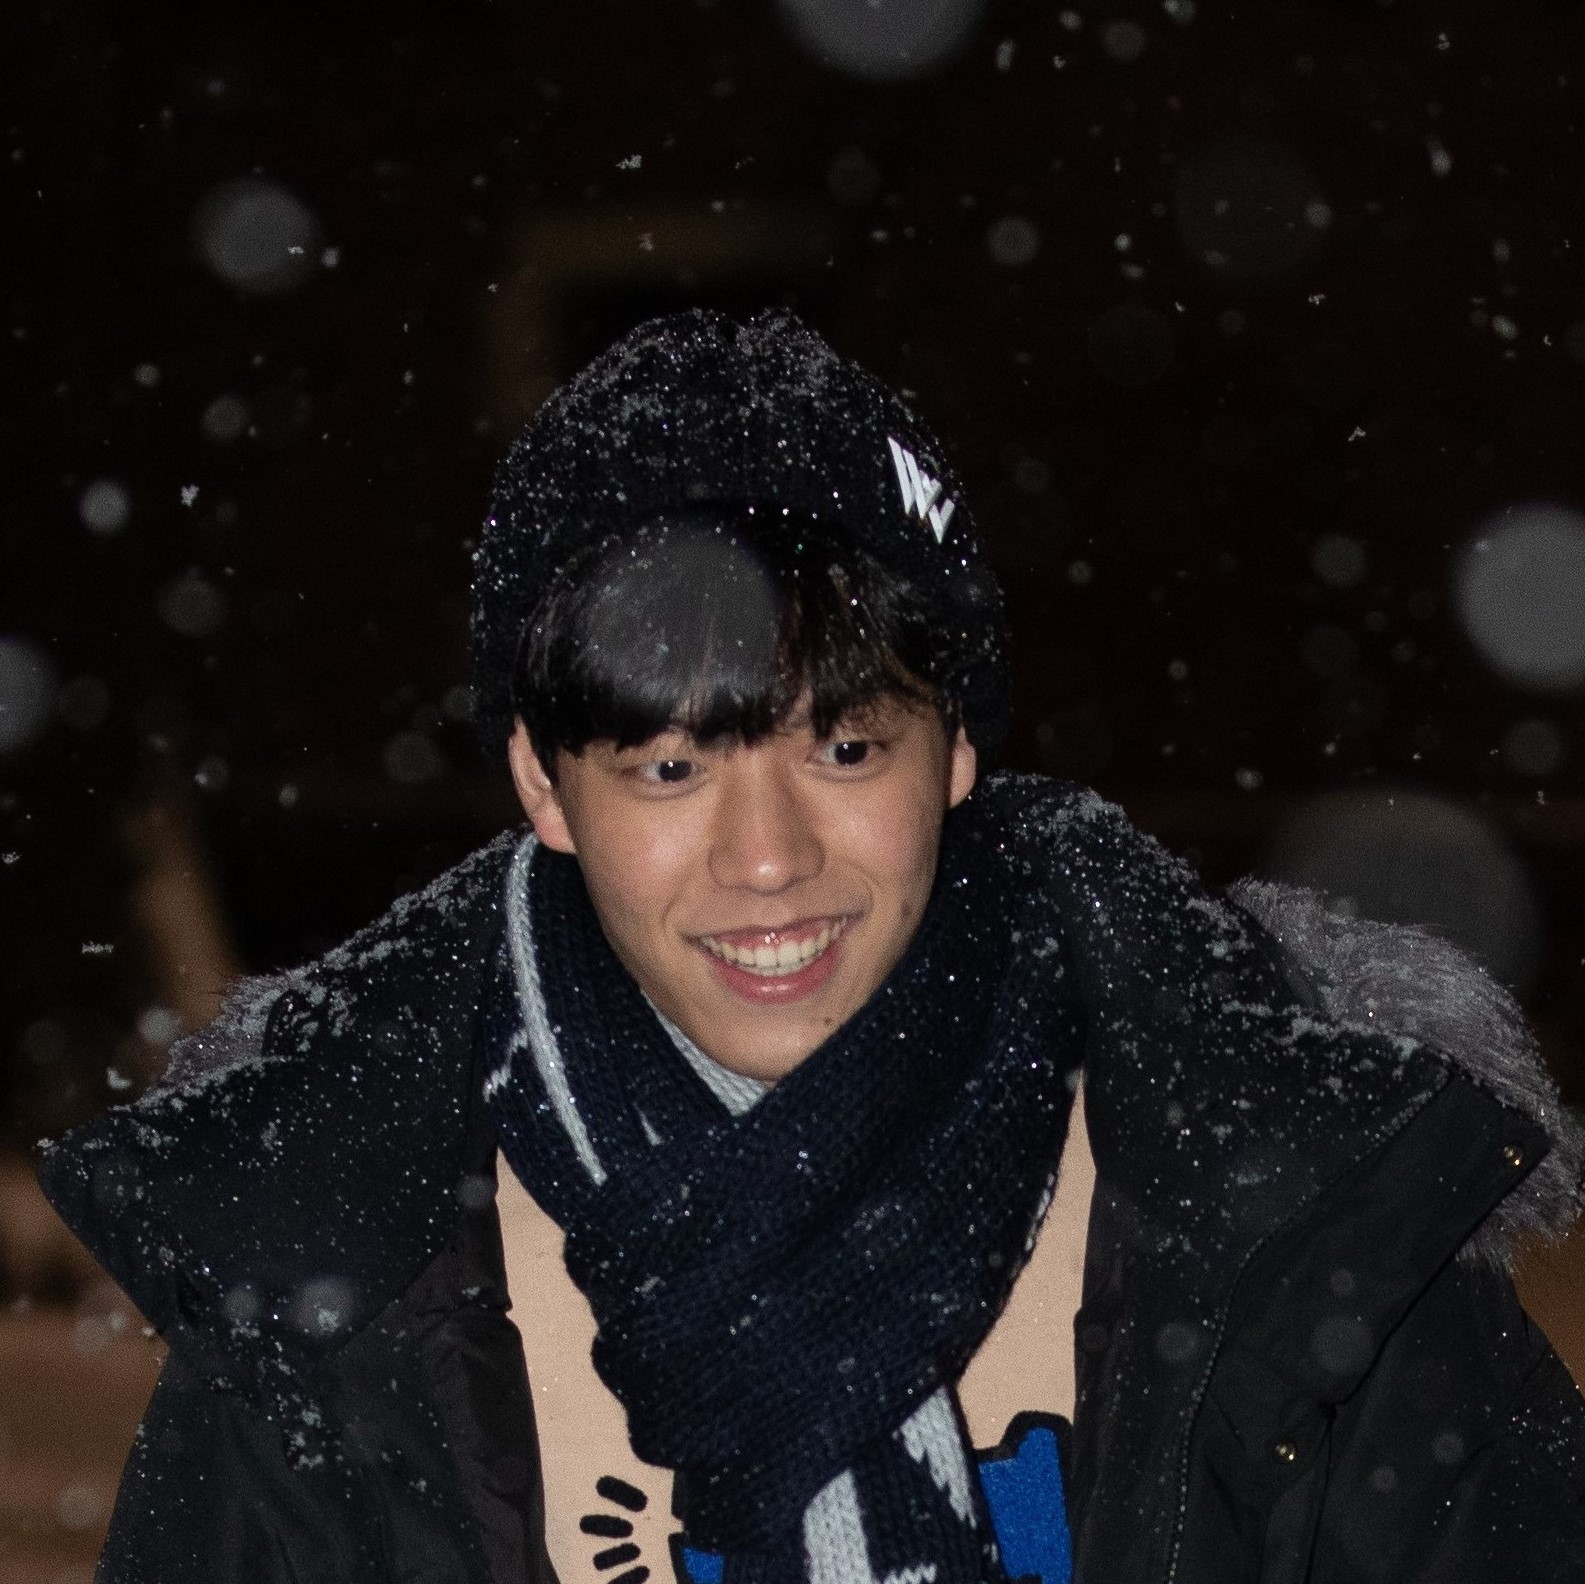
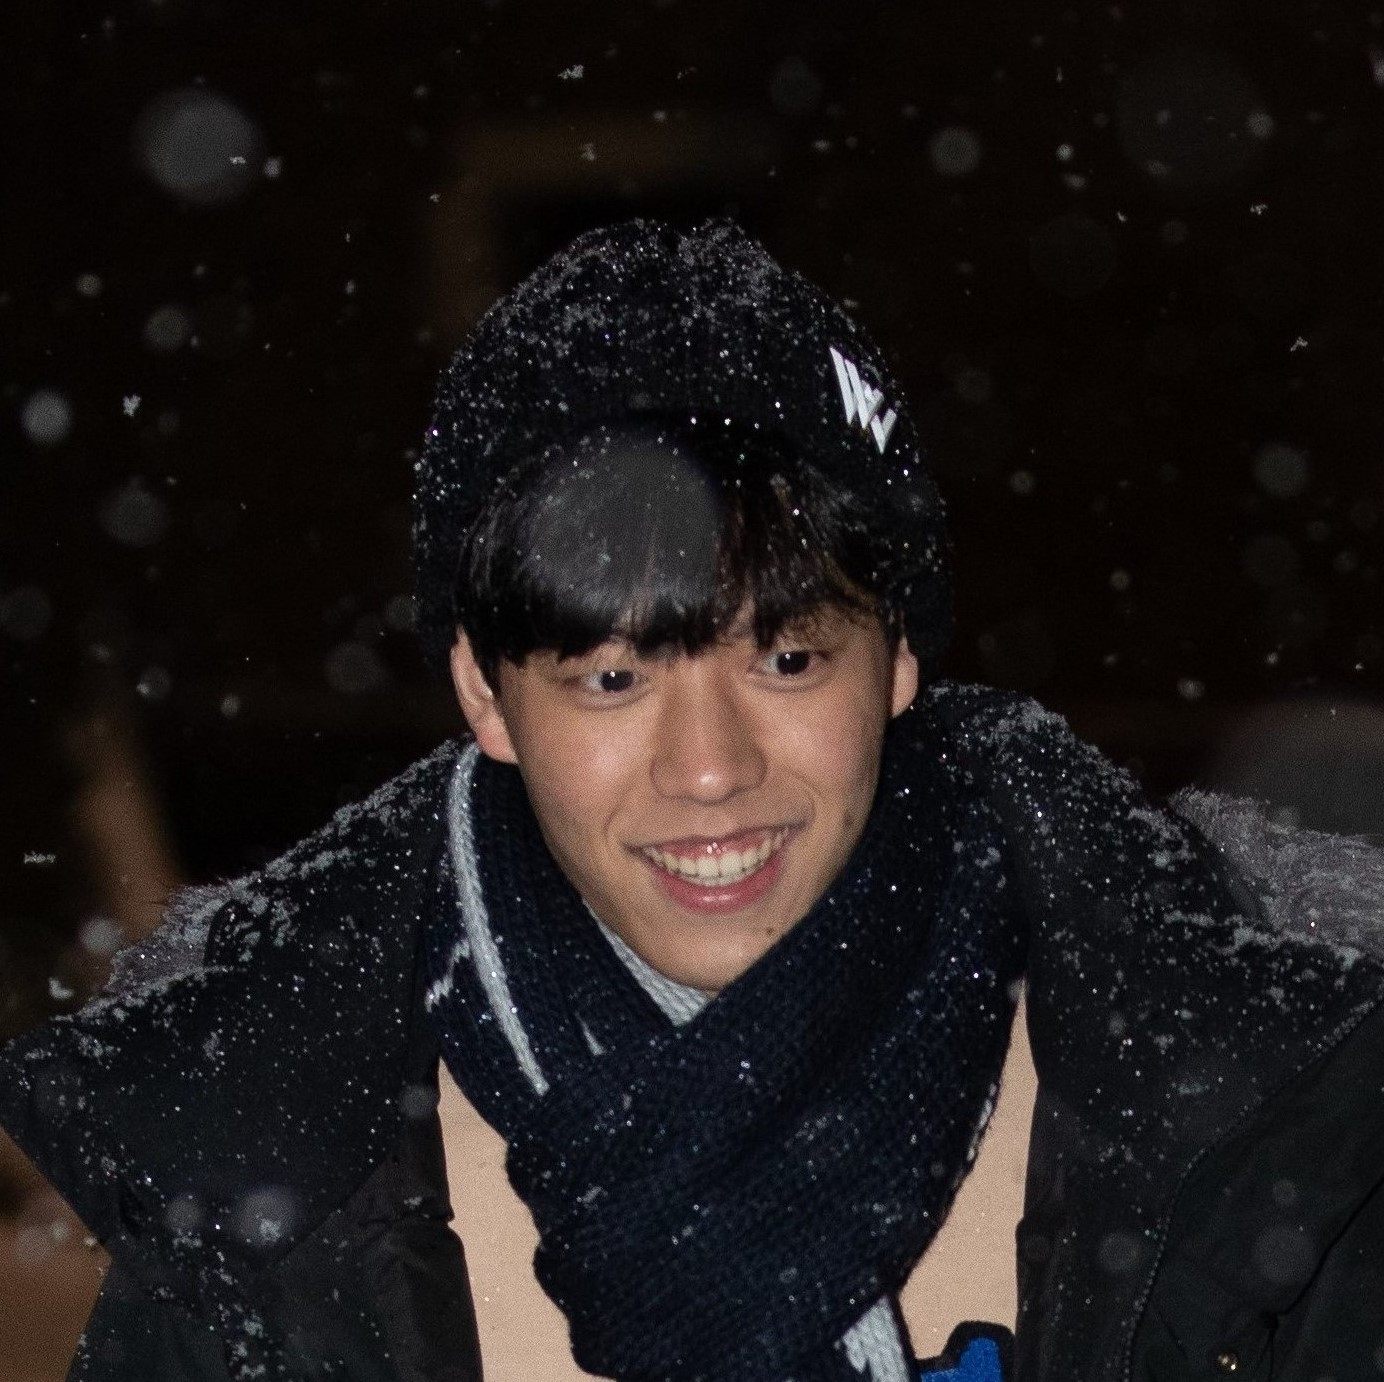
Add Ep 07 and update guest images - It's Over Pod

diff --git a/itsoverpod/episode7.html b/itsoverpod/episode7.html
@@ -1,0 +1,60 @@
+<!DOCTYPE HTML>
+<!--
+	Phantom by HTML5 UP
+	html5up.net | @ajlkn
+	Free for personal and commercial use under the CCA 3.0 license (html5up.net/license)
+-->
+<html>
+	<head>
+		<title>Episode 7 • It's Over Pod</title>
+		<script src="metadata.js"></script>
+	</head>
+	<body class="is-preload">
+		<!-- Wrapper -->
+		<div id="wrapper">
+			
+			<!-- Header -->
+			<script src="header.js"></script>
+
+			<!-- Main -->
+			<div id="main">
+				<div class="inner">
+					<h1>Episode 7 - Life at a Top Law Firm - Hannah Hsieh</h1>
+					
+					<p>
+						<strong>August 12, 2020</strong><br><br>
+						Ditching mechanical engineering to become a paralegal at a top international law firm.<br><br>
+
+						Tune in on:
+						<script src="podcast-distribution-links.js"></script>
+					</p>
+					
+					<iframe src="https://anchor.fm/itsover/embed/episodes/Ep-07---Life-at-a-Top-5-Law-Firm---Hannah-Hsieh-ei1m15" height="auto" width="100%" frameborder="0" scrolling="no"></iframe><br><br>
+					
+					<div class="align-center">
+						<a href="episodes" class="button">More episodes</a>
+					</div>
+				</div>
+			</div>
+
+			<!-- Footer -->
+			<script src="footer.js"></script>
+		</div>
+
+		<!-- Scripts -->
+		<script src="assets/js/jquery.min.js"></script>
+		<script src="assets/js/browser.min.js"></script>
+		<script src="assets/js/breakpoints.min.js"></script>
+		<script src="assets/js/util.js"></script>
+		<script src="assets/js/main.js"></script>
+
+		<!-- Global site tag (gtag.js) - Google Analytics -->
+		<script async src="https://www.googletagmanager.com/gtag/js?id=G-VXR8EV7KHJ"></script>
+		<script>
+			window.dataLayer = window.dataLayer || [];
+			function gtag(){dataLayer.push(arguments);}
+			gtag('js', new Date());
+			gtag('config', 'G-VXR8EV7KHJ');
+		</script>
+	</body>
+</html>

diff --git a/itsoverpod/index.html b/itsoverpod/index.html
@@ -35,6 +35,18 @@
 
 						<article>
 							<span class="image">
+								<img src="images/guests/ep07.jpg" alt="Episode 7 Guest" />
+								<img class="cover-art" src="images/cover-art/ep07.png" alt="Episode 7 Cover Art" />
+							</span>
+							<a href="episode7">
+								<div class="content">
+									<!-- <h2></h2> -->
+								</div>
+							</a>
+						</article>
+
+						<article>
+							<span class="image">
 								<img src="images/guests/ep06.jpg" alt="Episode 6 Guest" />
 								<img class="cover-art" src="images/cover-art/ep06.png" alt="Episode 6 Cover Art" />
 							</span>
@@ -51,18 +63,6 @@
 								<img class="cover-art" src="images/cover-art/ep05.png" alt="Episode 5 Cover Art" />
 							</span>
 							<a href="episode5">
-								<div class="content">
-									<!-- <h2></h2> -->
-								</div>
-							</a>
-						</article>
-
-						<article>
-							<span class="image">
-								<img src="images/guests/ep04.jpg" alt="Episode 4 Guest" />
-								<img class="cover-art" src="images/cover-art/ep04.png" alt="Episode 4 Cover Art" />
-							</span>
-							<a href="episode4">
 								<div class="content">
 									<!-- <h2></h2> -->
 								</div>

diff --git a/itsoverpod/episodes.html b/itsoverpod/episodes.html
@@ -32,6 +32,18 @@
 
 						<article>
 							<span class="image">
+								<img src="images/guests/ep07.jpg" alt="Episode 7 Guest" />
+								<img class="cover-art" src="images/cover-art/ep07.png" alt="Episode 7 Cover Art" />
+							</span>
+							<a href="episode7">
+								<div class="content">
+									<!-- <h2></h2> -->
+								</div>
+							</a>
+						</article>
+
+						<article>
+							<span class="image">
 								<img src="images/guests/ep06.jpg" alt="Episode 6 Guest" />
 								<img class="cover-art" src="images/cover-art/ep06.png" alt="Episode 6 Cover Art" />
 							</span>
